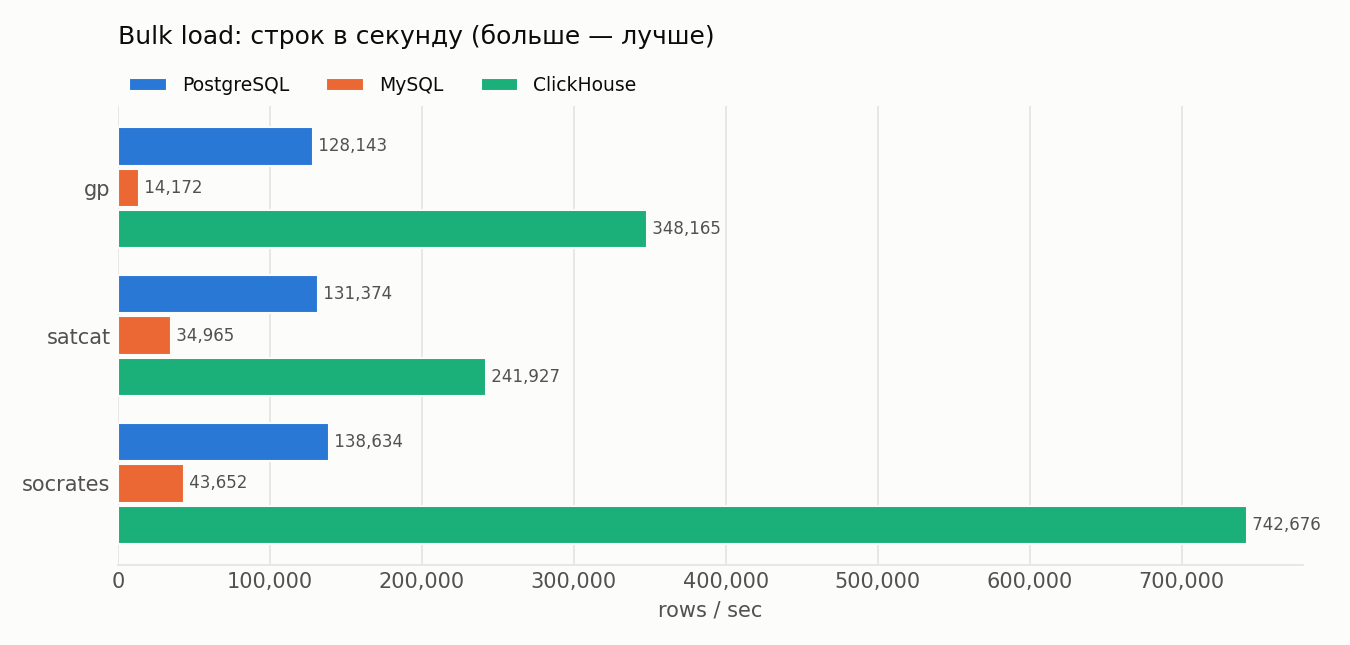
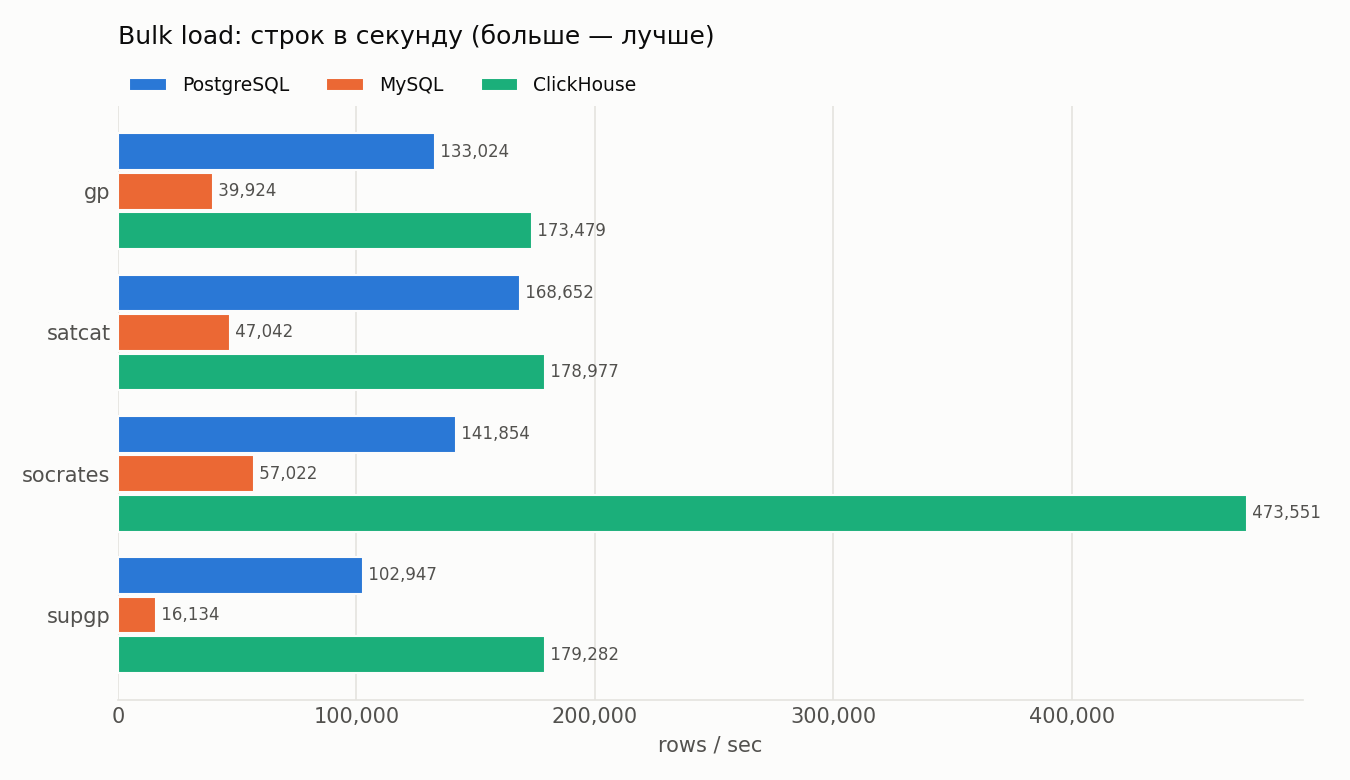
lab1

Changed region(s): [[0.0, 0.031, 0.9644, 0.9612], [0.0622, 0.8992, 0.0933, 0.9302]]

diff --git a/reports/lr1/results.md b/reports/lr1/results.md
@@ -1,49 +1,53 @@
 # Результаты storage_benchmark
 
-Run: `manual__2026-10-16T20:20:36.537519+00:00_Z86lpq4o`
+Run: `manual__2026-10-17T05:39:01.704868+00:00_GhLjM28f`
 
 ## Объём данных
 
 | Таблица | Строк | CSV, МБ | Сырые файлы в S3, МБ |
 |---|---:|---:|---:|
-| gp | 16,752 | 4.0 | 6.7 |
+| gp | 50,260 | 11.8 | 20.1 |
 | satcat | 71,073 | 13.9 | 6.5 |
 | socrates | 195,841 | 41.8 | 21.2 |
+| supgp | 11,152 | 2.8 | 4.9 |
 
 ## Загрузка, секунд
 
 | | PostgreSQL | MySQL | ClickHouse |
 |---|---:|---:|---:|
-| gp | 0.13 | 1.18 | 0.05 |
-| satcat | 0.54 | 2.03 | 0.29 |
-| socrates | 1.41 | 4.49 | 0.26 |
+| gp | 0.38 | 1.26 | 0.29 |
+| satcat | 0.42 | 1.51 | 0.40 |
+| socrates | 1.38 | 3.43 | 0.41 |
+| supgp | 0.11 | 0.69 | 0.06 |
 
 ## Загрузка, строк/с
 
 | | PostgreSQL | MySQL | ClickHouse |
 |---|---:|---:|---:|
-| gp | 128,143 | 14,172 | 348,165 |
-| satcat | 131,374 | 34,965 | 241,927 |
-| socrates | 138,634 | 43,652 | 742,676 |
+| gp | 133,024 | 39,924 | 173,479 |
+| satcat | 168,652 | 47,042 | 178,977 |
+| socrates | 141,854 | 57,022 | 473,551 |
+| supgp | 102,947 | 16,134 | 179,282 |
 
 ## Запросы, медиана мс
 
 | | PostgreSQL | MySQL | ClickHouse |
 |---|---:|---:|---:|
-| q1_point_lookup — Последние элементы орбиты МКС (NORAD 25544) | 0.5 | 0.7 | 5.0 |
-| q2_catalog_groupby — Каталог: число объектов по владельцу и типу (последний снимок) | 18.2 | 109.2 | 11.1 |
-| q3_timeseries — GP: число элементов и средняя mean_motion по дням epoch (вся история) | 4.5 | 5.9 | 5.0 |
-| q4_join — JOIN каталог x орбиты: спутники на LEO по владельцам (последние снимки) | 21.5 | 63.0 | 20.5 |
-| q5_topn — SOCRATES: топ-100 сближений по вероятности (последний снимок) | 26.0 | 237.3 | 18.4 |
-| q6_full_scan — SOCRATES: агрегаты по всей истории (полный скан) | 91.9 | 76.2 | 8.3 |
+| q1_point_lookup — Последние элементы орбиты МКС (NORAD 25544) | 0.3 | 0.7 | 7.0 |
+| q2_catalog_groupby — Каталог: число объектов по владельцу и типу (последний снимок) | 20.0 | 130.0 | 17.1 |
+| q3_timeseries — GP: число элементов и средняя mean_motion по дням epoch (вся история) | 14.9 | 19.4 | 9.9 |
+| q4_join — JOIN каталог x орбиты: спутники на LEO по владельцам (последние снимки) | 22.9 | 244.4 | 39.5 |
+| q5_topn — SOCRATES: топ-100 сближений по вероятности (последний снимок) | 27.7 | 288.5 | 27.6 |
+| q6_full_scan — SOCRATES: агрегаты по всей истории (полный скан) | 113.4 | 91.4 | 14.2 |
 
 ## Размер на диске, МБ
 
 | | PostgreSQL | MySQL | ClickHouse |
 |---|---:|---:|---:|
-| gp | 4.8 | 5.3 | 1.2 |
+| gp | 14.5 | 16.5 | 2.1 |
 | satcat | 18.2 | 18.6 | 2.2 |
 | socrates | 51.3 | 57.6 | 7.7 |
+| supgp | 3.8 | 4.1 | 0.7 |
 
 ![load](load_throughput.png)
 

diff --git a/README.md b/README.md
@@ -11,7 +11,8 @@
 | 3 | Витрины, Superset, OpenMetadata lineage | — |
 
 Предметная область (термины, поля, коды, сущности, особенности данных) —
-[docs/domain.md](docs/domain.md). План архитектуры — [docs/architecture-plan.md](docs/architecture-plan.md),
+[docs/domain.md](docs/domain.md). Как устроены DAG и разбор API —
+[docs/implementation.md](docs/implementation.md). План архитектуры — [docs/architecture-plan.md](docs/architecture-plan.md),
 отчёт ЛР1 — [reports/lr1/report.md](reports/lr1/report.md).
 
 ## Архитектура (ЛР1)
